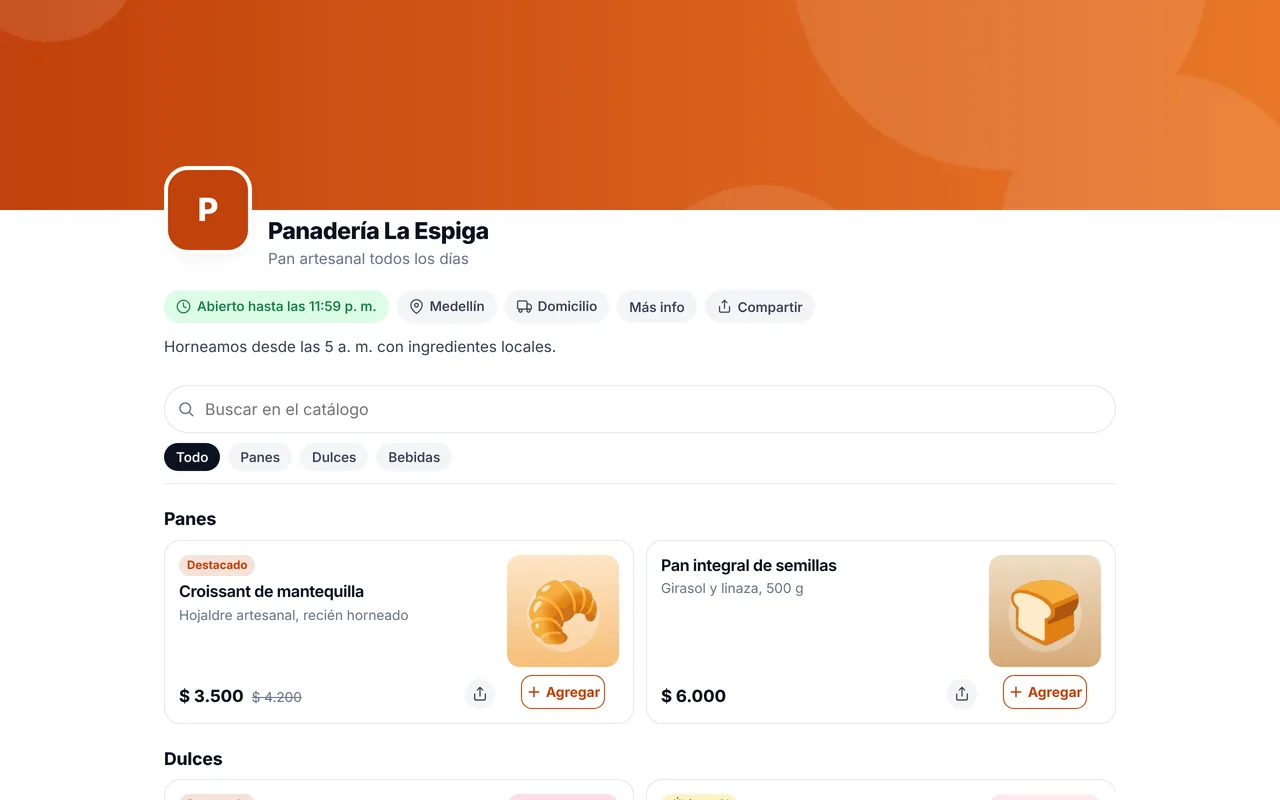
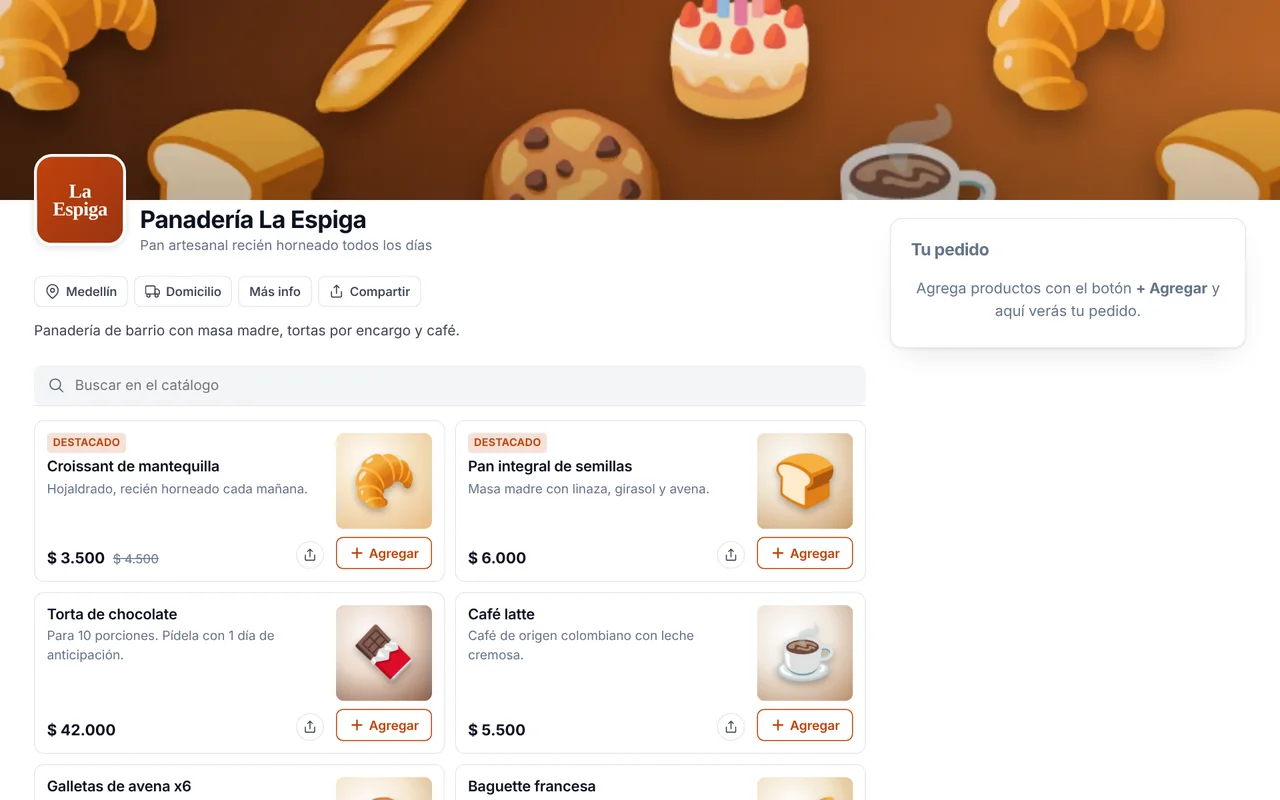
Diseño v3 en la página principal, ingreso y registro; imágenes de muestra nuevas con el panel y el catálogo actuales
Claude-Session: https://claude.ai/code/session_017V2Y3KkK5Goedy4UQgP6a9

diff --git a/public/css/app.css b/public/css/app.css
@@ -402,3 +402,36 @@ input,select,textarea{border-radius:10px}
 .qrbox{display:flex;align-items:center;gap:22px;flex-wrap:wrap}.qrbox .qr{border-radius:16px;box-shadow:var(--sh)}
 .tipline{display:flex;gap:8px;align-items:flex-start;color:var(--muted);font-size:.8rem;margin-top:10px}.tipline .i{color:#3b82f6;flex:none;margin-top:1px}
 @media (max-width:860px){.card{border-radius:16px;padding:16px}.share-btns{grid-template-columns:1fr}.page-h h1{font-size:1.25rem}.page-h h1:before{width:24px;height:24px}}
+
+/* ===== Diseño v3 — sitio público, ingreso y registro ===== */
+body:not(.app):not(.shop){background:#fff}
+.top:not(.admin){background:rgba(255,255,255,.82);backdrop-filter:saturate(1.4) blur(14px)}
+.nav .btn-p{border-radius:12px}
+/* Portada */
+.lp-hero{background:radial-gradient(900px 480px at 85% -10%,color-mix(in srgb,var(--brand) 22%,#fff) 0,transparent 65%),radial-gradient(700px 420px at -10% 110%,color-mix(in srgb,#5eead4 18%,#fff) 0,transparent 60%),#fff}
+.lp-pill{border-radius:99px;box-shadow:var(--sh)}
+.lp-win,.lp-upimg{border-radius:16px;box-shadow:var(--sh2)}.lp-phone{border-radius:34px;box-shadow:var(--sh2)}
+.lp-chip{border-radius:14px;box-shadow:var(--sh2)}
+/* Franja de canales con íconos en color */
+.lp-strip li .i{color:var(--brand)}
+/* Tarjetas de pasos, funciones y planes */
+.feat,.step,.plan{border-radius:18px;border-color:#e8ecef;box-shadow:var(--sh);transition:box-shadow .2s,transform .2s}
+.feat:hover{box-shadow:var(--sh2);transform:translateY(-2px)}
+.feat .ic{width:42px;height:42px;border-radius:12px;background:var(--grad);color:#fff;box-shadow:0 8px 18px -10px color-mix(in srgb,var(--brand) 80%,transparent)}
+.band-dark .step{border-radius:18px;background:rgba(255,255,255,.06);border-color:rgba(255,255,255,.14);box-shadow:none}
+.step:before{background:var(--grad);color:#fff;box-shadow:0 6px 14px -8px color-mix(in srgb,var(--brand) 80%,transparent)}
+.band-dark .step:before{background:#5eead4;color:#06201d}
+.plan.hot{border:0;background:linear-gradient(#fff,#fff) padding-box,var(--grad) border-box;border:2px solid transparent;box-shadow:var(--sh2)}
+.plan.hot:before{background:var(--grad);border-radius:8px;padding:4px 10px}
+.plan .pr{background:linear-gradient(135deg,var(--ink),color-mix(in srgb,var(--brand) 60%,var(--ink)));-webkit-background-clip:text;background-clip:text;color:transparent}
+.plan .pr small{-webkit-text-fill-color:var(--muted)}
+details.faq{border-radius:14px;box-shadow:var(--sh);border-color:#e8ecef}details.faq[open]{border-color:color-mix(in srgb,var(--brand) 35%,var(--line))}
+/* Llamado final y pie */
+.band-cta .btn,.cta .btn{border-radius:12px}
+.foot{background:linear-gradient(180deg,#fafbfc,#f1f4f6)}
+/* Ingreso y registro */
+.au-main{background:radial-gradient(700px 420px at 100% 0%,color-mix(in srgb,var(--brand) 10%,#fff) 0,transparent 60%),#fff}
+.au-card{background:#fff;border:1px solid #e8ecef;border-radius:22px;padding:32px;box-shadow:var(--sh2)}
+.au-side{background:radial-gradient(600px 400px at 0% 100%,color-mix(in srgb,var(--brand) 55%,transparent),transparent 70%),linear-gradient(160deg,#071a17,color-mix(in srgb,var(--brand) 35%,#071a17) 75%)}
+.au-shot{border-radius:16px 16px 0 0}
+@media (max-width:860px){.au-card{border:0;box-shadow:none;padding:6px 0;background:transparent}.au-main{background:#fff}}
